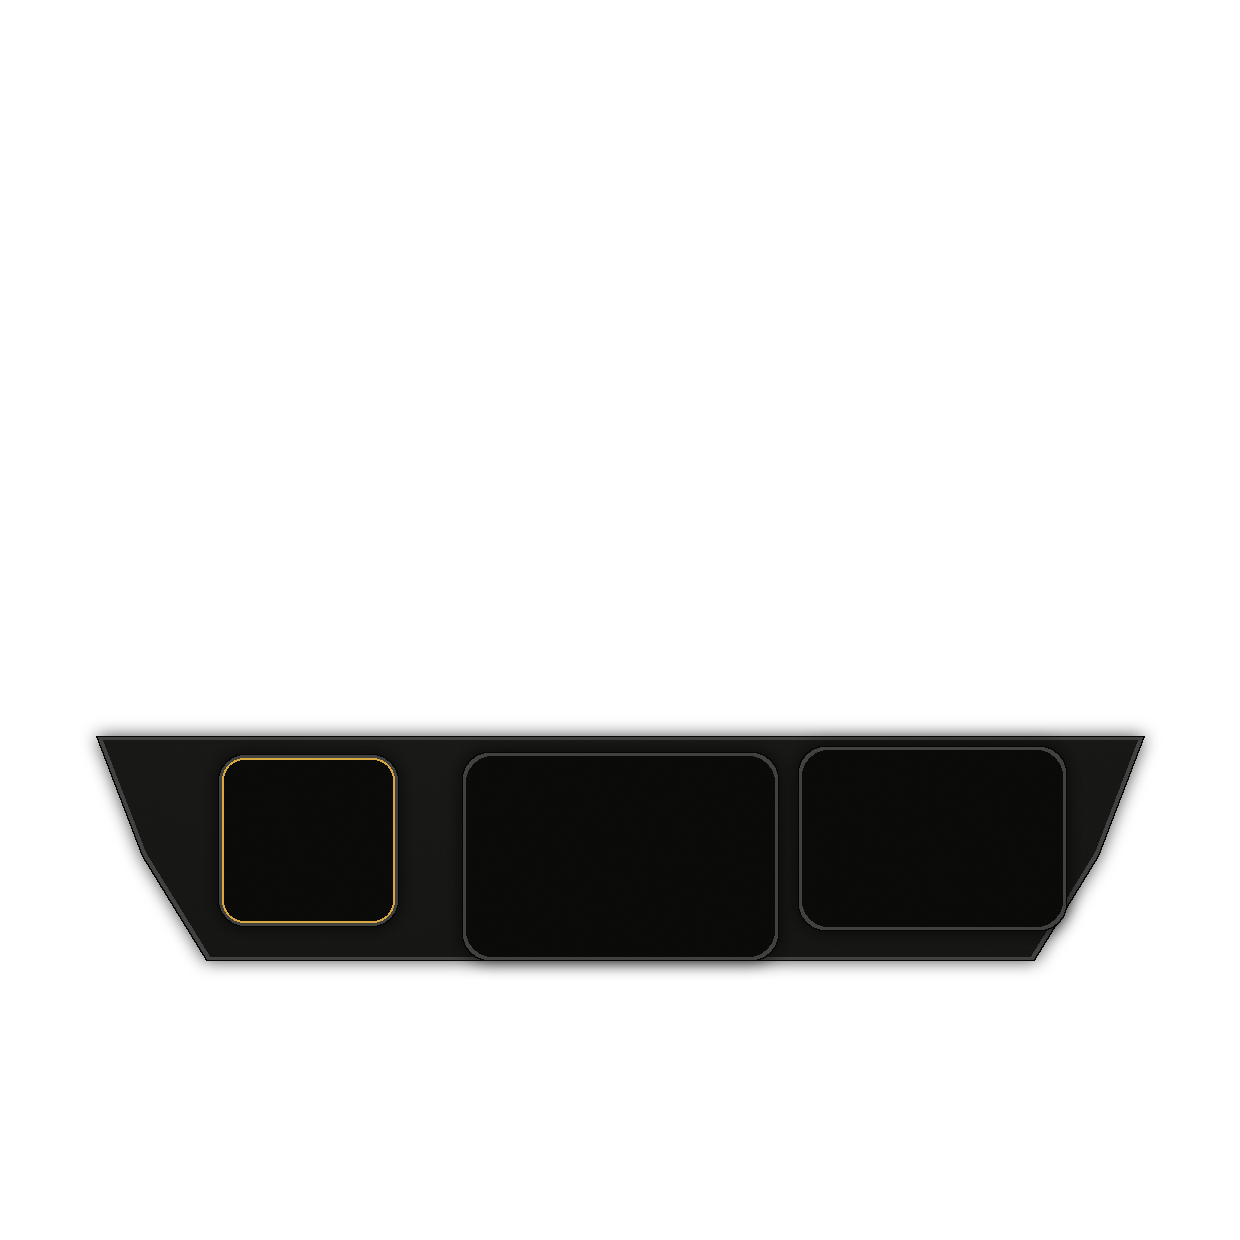
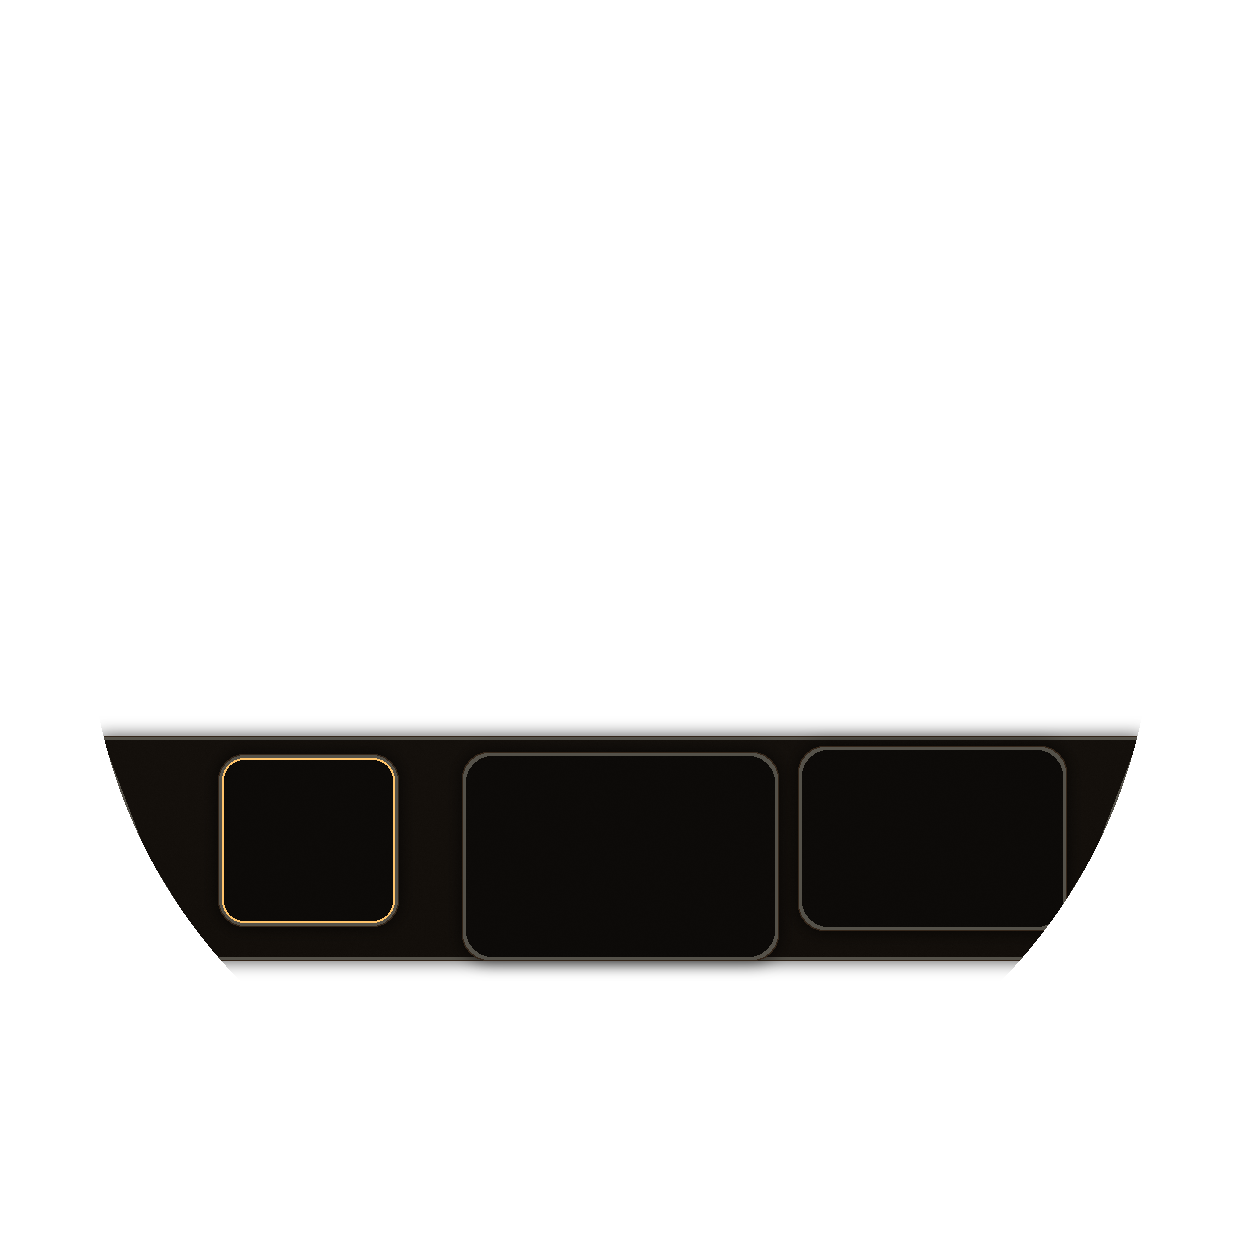
fix(analog): refine dial layouts pedals steering and auxiliary gauges

diff --git a/tools/build-dial-shells.py b/tools/build-dial-shells.py
@@ -20,16 +20,22 @@ R = np.hypot(X - 310, Y - 304)
 NOISE = np.random.default_rng(615).normal(0, 0.6, (SIZE, SIZE))
 
 
+# Resolve the same semantic palette as the runtime, without CSP dependencies.
+paletteLua=LuaRuntime()
+paletteLua.execute("package.path = '"+ROOT.as_posix()+"/?.lua;' .. package.path; rgbm=function(r,g,b,a) return {r=r,g=g,b=b,mult=a} end; package.loaded['src/general_settings']={}")
+THEME=paletteLua.execute("return require('src/theme')")
+
+def ink(light,role):
+    c=THEME['get']('light' if light else 'dark')[role]
+    return tuple(round(c[k]*255) for k in ('r','g','b'))+(255,)
+
 def material(light=False, metal=False, screen=False):
-    shade = (218 if light else 24) + (304-Y) * (0.025 if light else 0.015)
-    shade = shade + 8*np.exp(-((X-230)**2+(Y-125)**2)/40000) + NOISE
-    if screen:
-        shade = (236 if light else 10) + NOISE * 0.3
+    base=np.array(ink(light,'metal' if metal else 'panel' if screen else 'surface')[:3])
+    relief=NOISE*0.3 if screen else NOISE+(304-Y)*0.012
     if metal:
-        shade = (170 if light else 48) + 22*np.sin((X+Y)/200) + 11*np.cos(R/3)
-        shade = shade + np.sin(Y*6)*1.6 + NOISE
-    rgb = np.stack((shade+1, shade+1, shade), axis=2)
-    return Image.fromarray(np.uint8(np.clip(rgb, 0, 255)), 'RGB').convert('RGBA')
+        relief=relief+8*np.sin((X+Y)/200)+4*np.cos(R/3)
+    rgb=base[None,None,:]+relief[:,:,None]
+    return Image.fromarray(np.uint8(np.clip(rgb,0,255)), 'RGB').convert('RGBA')
 
 
 def mask(shape, data):
@@ -57,11 +63,11 @@ def surface(canvas, m, texture, light, bevel=True):
     canvas.alpha_composite(tile)
     if bevel:
         edge = ImageChops.subtract(m, m.filter(ImageFilter.MinFilter(9)))
-        tint = Image.new('RGBA', canvas.size, (145, 145, 140, 255) if light else (65, 66, 63, 255))
+        tint = Image.new('RGBA', canvas.size, ink(light,'metal'))
         tint.putalpha(edge)
         canvas.alpha_composite(tint)
         edge = ImageChops.subtract(m, m.filter(ImageFilter.MinFilter(3)))
-        tint = Image.new('RGBA', canvas.size, (92, 94, 91, 255) if light else (5, 6, 5, 255))
+        tint = Image.new('RGBA', canvas.size, ink(light,'outlineDim'))
         tint.putalpha(edge)
         canvas.alpha_composite(tint)
 
@@ -77,7 +83,7 @@ def panel(canvas, points, textures, light):
 
 def screen(canvas, x, y, w, h, textures, light, gear=False):
     surface(canvas,mask('round',(x,y,w,h,13)),textures['screen'],light)
-    color = (174,120,36,255) if light else (217,168,62,255)
+    color = ink(light,'amber')
     if gear:
         ImageDraw.Draw(canvas).rounded_rectangle(tuple(round(v*SCALE) for v in (x-w/2+2,y-h/2+2,x+w/2-2,y+h/2-2)),
                                                 radius=11*SCALE,outline=color,width=2)
@@ -86,13 +92,9 @@ def screen(canvas, x, y, w, h, textures, light, gear=False):
 def shells(layout, light):
     textures = {name: material(light,metal=name=='metal',screen=name=='screen') for name in ('face','metal','screen')}
     back = Image.new('RGBA',(SIZE,SIZE))
-    outer = mask('circle',(310,304,292))
+    outer = mask('circle',(310,304,266))
     surface(back,outer,textures['metal'],light,False)
     surface(back,mask('circle',(310,304,268)),textures['face'],light)
-    for radius,color,width in ((290,(9,10,9,255),3),(285,(126,129,124,255),1),
-                               (279,(11,13,11,255),5),(273,(98,102,96,255),1),
-                               (266,(6,7,6,255),3),(261,(61,64,59,255),1)):
-        circle(back,310,304,radius,color,width)
     # Subtle brushed highlights remain texture; RPM bands are runtime geometry.
     r=layout['rpm']
     if layout['id'] in ('fan','spoke'):
@@ -110,14 +112,14 @@ def shells(layout, light):
         # This opening shows the game scene, not a painted silver ring.
         back.putalpha(ImageChops.subtract(back.getchannel('A'),mask('circle',(310,304,176))))
     if layout['id']=='shelf':
-        ink=(167,169,161,255) if light else (56,59,54,255)
+        circleInk=ink(light,'outlineDim')
         for radius in (165,160,83):
-            circle(back,r[1],r[2],radius,ink,1)
+            circle(back,r[1],r[2],radius,circleInk,1)
     if layout['id']=='spoke':
         surface(back,mask('circle',(310,300,60)),textures['metal'],light)
         surface(back,mask('circle',(310,300,49)),textures['screen'],light)
-        circle(back,310,300,58,(110,113,104,255),2)
-        circle(back,310,300,47,(72,75,68,255),1)
+        circle(back,310,300,58,ink(light,'metal'),2)
+        circle(back,310,300,47,ink(light,'outlineDim'),1)
 
     front=Image.new('RGBA',(SIZE,SIZE))
     name=layout['id']
@@ -126,9 +128,11 @@ def shells(layout, light):
     elif name=='fan':
         panel(front,[(409,350),(565,351),(552,439),(522,483),(415,479),(397,405)],textures,light)
     elif name=='concentric':
-        surface(front,mask('circle',(310,334,99)),textures['screen'],light)
-        circle(front,310,334,99,(67,70,64,255),3)
-        circle(front,310,334,90,(88,89,80,255),1)
+        core=layout['core']
+        cx,cy,rr=core[1],core[2],core[3]
+        surface(front,mask('circle',(cx,cy,rr)),textures['screen'],light)
+        circle(front,cx,cy,rr,ink(light,'outline'),3)
+        circle(front,cx,cy,rr-9,ink(light,'outlineDim'),1)
     elif name=='spoke':
         # Recessed perforated side panels, bounded by the spokes.
         for points in ([(81,418),(199,432),(225,512),(177,546),(122,523)],
@@ -140,7 +144,7 @@ def shells(layout, light):
                 for xx in range(75,550,8):
                     x=(xx+(4 if yy%16 else 0))*SCALE
                     y=yy*SCALE
-                    d.ellipse((x-2,y-2,x+2,y+2),fill=(8,9,8,255) if not light else (120,123,118,255))
+                    d.ellipse((x-2,y-2,x+2,y+2),fill=ink(light,'void'))
             surface(front,m,tile,light)
         panel(front,[(273,520),(347,520),(365,579),(255,579)],textures,light)
         # The central hub stays dynamic, above the static foreground spokes.
